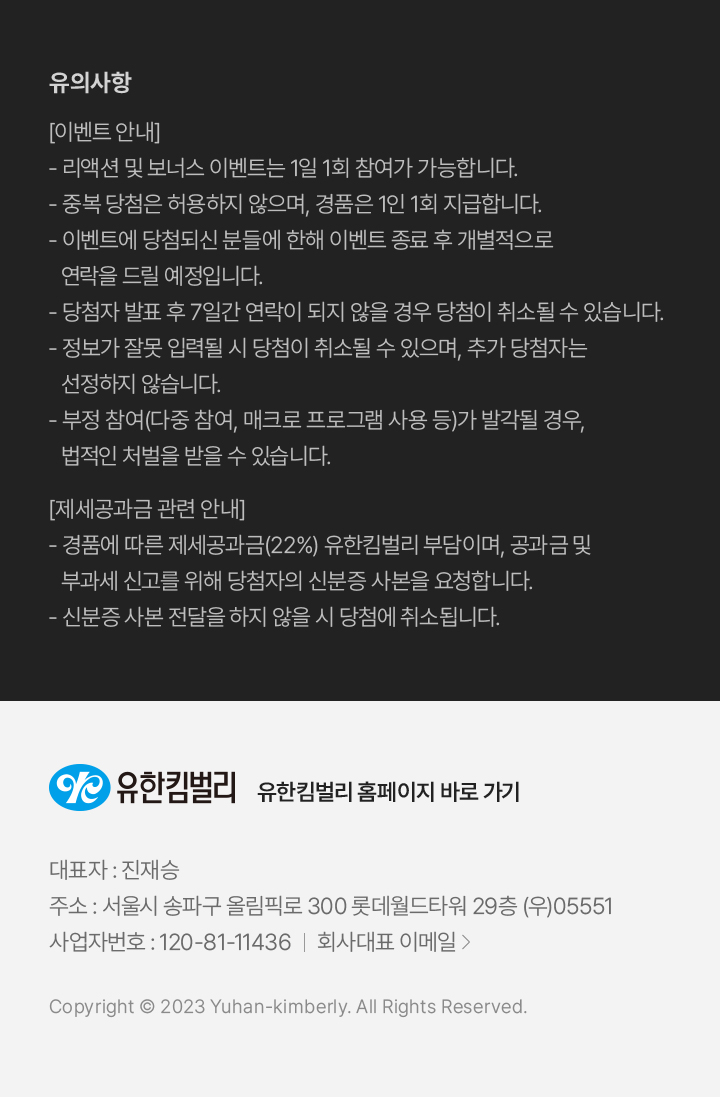
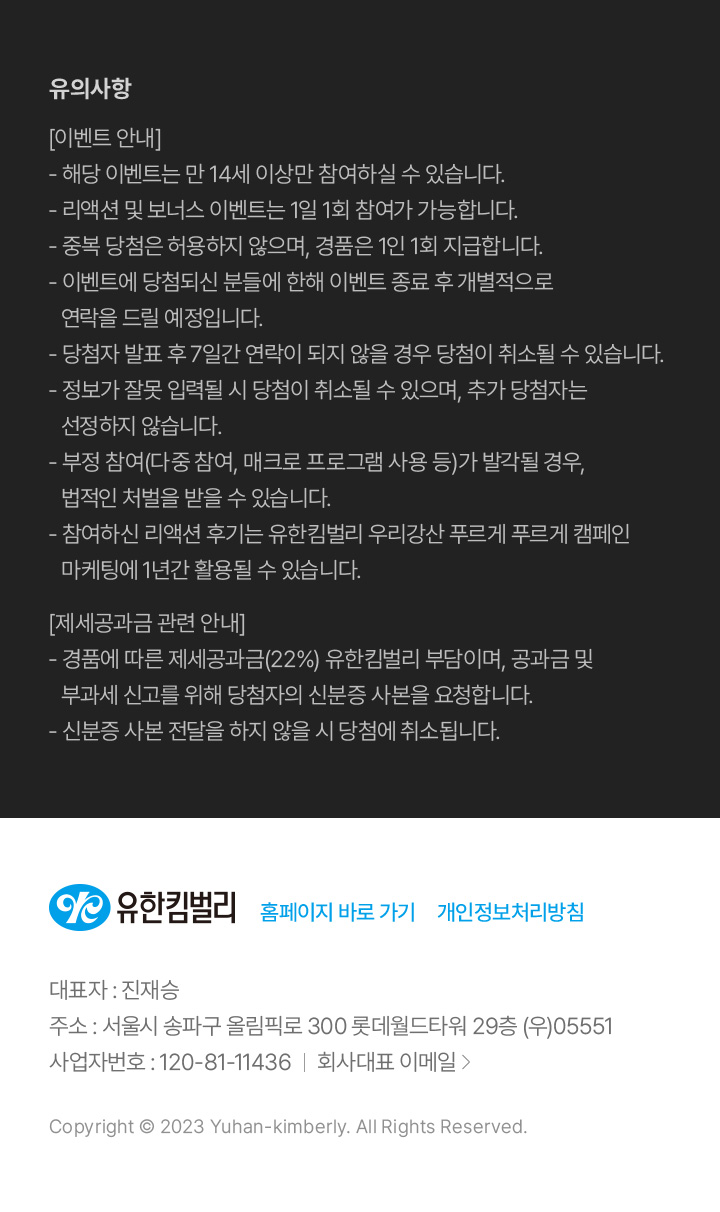
수정

Changed region(s): [[0.0, 0.062, 1.0, 0.9298], [0.3667, 0.7129, 0.825, 0.7748]]

diff --git a/__resource/scss/layout.scss b/__resource/scss/layout.scss
@@ -204,7 +204,7 @@ body {
 .footer {
     position: relative;
     background: url(/assets/images/img_footer.jpg) no-repeat center/cover;
-    aspect-ratio: 720/1097;
+    aspect-ratio: 720/1212;
 
     a {
         position: absolute;
@@ -217,18 +217,18 @@ body {
     p {
         &:nth-of-type(1) {
             a {
-                top: 69.5%;
-                left: 35%;
-                width: 38%;
-                height: 5.5%;
+                top: 73.5%;
+                left: 35.5%;
+                width: 23%;
+                height: 3.5%;
             }
         }
 
         &:nth-of-type(2) {
             a {
-                top: 84%;
+                top: 85.7%;
                 left: 43%;
-                width: 24%;
+                width: 23%;
                 height: 3.5%;
             }
         }
